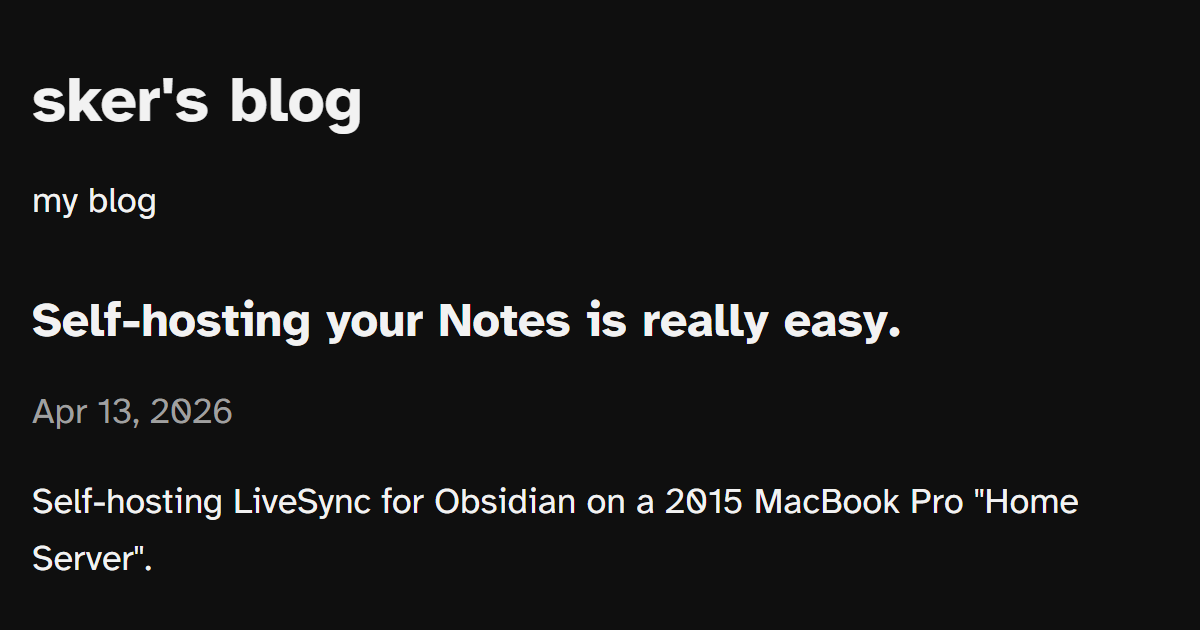
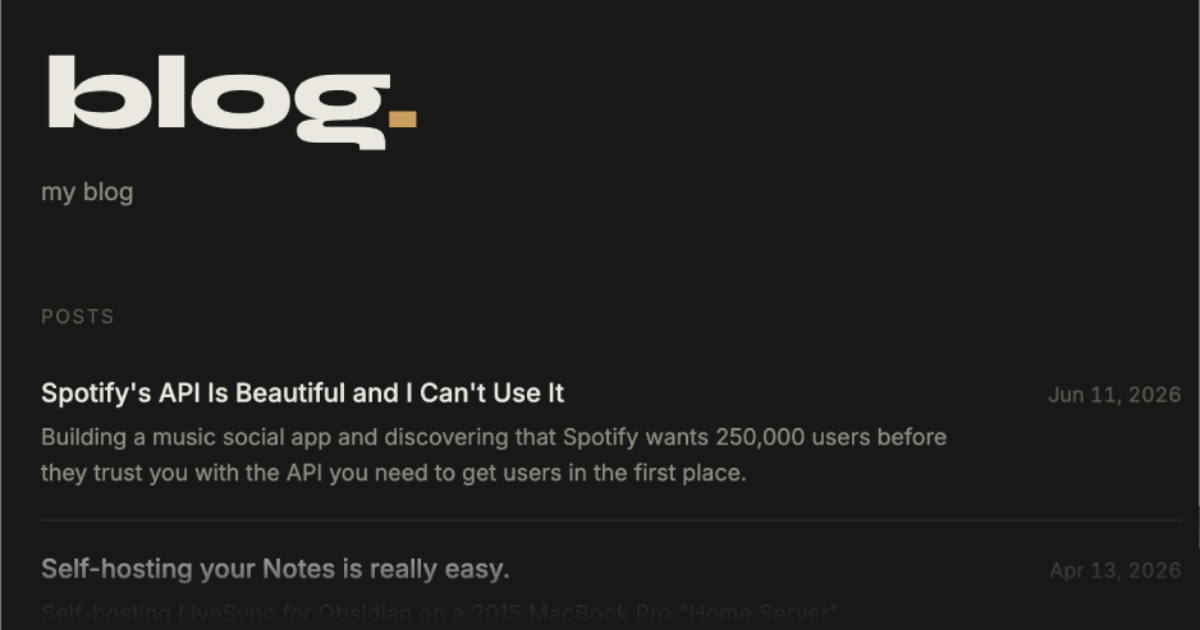
feat: enhance blog layout and styling, add remark-gfm support for markdown - Integrate remark-gfm for GitHub Flavored Markdown support - Update Footer component with RSS link and improved styling - Refine BlogPost layout with accent colors and improved typography - Adjust index page styles for bette

diff --git a/src/styles/global.css b/src/styles/global.css
@@ -10,11 +10,19 @@ html {
 
 :root {
     color-scheme: dark;
-    --text: #f2f2f2;
-    --muted: #888888;
-    --border: #2a2a2a;
-    --surface: #1a1a1a;
-    --background: #111111;
+    --text: #ece9e2;
+    --muted: #8f8b82;
+    --faint: #5c594f;
+    --border: #2a2823;
+    --surface: #1b1a16;
+    --background: #121110;
+    --accent: #d9a05b;
+    --accent-soft: rgba(217, 160, 91, 0.14);
+}
+
+::selection {
+    background: var(--accent-soft);
+    color: var(--accent);
 }
 
 @font-face {
@@ -87,6 +95,13 @@ b {
 
 a {
     color: inherit;
+}
+
+a:focus-visible,
+button:focus-visible {
+    outline: 2px solid var(--accent);
+    outline-offset: 2px;
+    border-radius: 2px;
 }
 
 p {